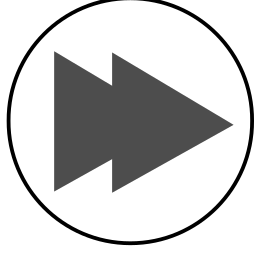
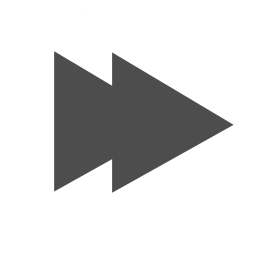
Pixelated problem has fixed

Changed region(s): [[0.0, 0.0, 1.0, 0.9684]]

diff --git a/src/userUI/subFrames/Playerpanel.java b/src/userUI/subFrames/Playerpanel.java
@@ -26,6 +26,7 @@ import staticinfo.Imagedtr;
 import staticinfo.MenuItemlist;
 import userUI.MainFrame;
 import userUI.information.Musicinfo;
+import userUI.mycomponents.Mybutton;
 import userUI.mycomponents.PlayerTime;
 
 import javax.swing.JProgressBar;
@@ -65,9 +66,8 @@ public class Playerpanel extends JPanel {
 	private Boolean isStop = false;
 	private final Object lock = new Object();
 	private int current = 0;
-	private JButton btn_Prev;
-	private JButton btn_Stop;
-	private JButton btn_Onward;
+	private JButton btn_Prev, btn_Stop,btn_Onward;
+	private JPanel pnl_Timeline, pnl_Onward,pnl_Stop,pnl_Prev;
 	/**
 	 * Create the panel.
 	 */
@@ -89,12 +89,12 @@ public class Playerpanel extends JPanel {
 		add(pnl_Buttons, BorderLayout.WEST);
 		pnl_Buttons.setLayout(new GridLayout(0, 3, 0, 0));
 		
-		JPanel pnl_Prev = new JPanel();
+		pnl_Prev = new JPanel();
 		pnl_Buttons.add(pnl_Prev);
 		SpringLayout sl_pnl_Prev = new SpringLayout();
 		pnl_Prev.setLayout(sl_pnl_Prev);
 		
-		btn_Prev = new JButton("");
+		btn_Prev = new Mybutton("");
 		btn_Prev.addMouseListener(new MouseAdapter() {
 			@Override
 			public void mouseClicked(MouseEvent e) {
@@ -108,11 +108,11 @@ public class Playerpanel extends JPanel {
 		sl_pnl_Prev.putConstraint(SpringLayout.EAST, btn_Prev, 23, SpringLayout.WEST, pnl_Prev);
 		pnl_Prev.add(btn_Prev);
 		
-		JPanel pnl_Stop = new JPanel();
+		pnl_Stop = new JPanel();
 		pnl_Buttons.add(pnl_Stop);
 		pnl_Stop.setLayout(new BorderLayout(0, 0));
 		
-		btn_Stop = new JButton("");
+		btn_Stop = new Mybutton("");
 		btn_Stop.setIcon(Photoeditor.photoScaleImage(Imagedtr.stop, 30, 51));
 		btn_Stop.addActionListener(new ActionListener() {
 			public void actionPerformed(ActionEvent e) {
@@ -121,12 +121,12 @@ public class Playerpanel extends JPanel {
 		});
 		pnl_Stop.add(btn_Stop, BorderLayout.CENTER);
 		
-		JPanel pnl_Onward = new JPanel();
+		pnl_Onward = new JPanel();
 		pnl_Buttons.add(pnl_Onward);
 		SpringLayout sl_pnl_Onward = new SpringLayout();
 		pnl_Onward.setLayout(sl_pnl_Onward);
 		
-		btn_Onward = new JButton("");
+		btn_Onward = new Mybutton("");
 		btn_Onward.addMouseListener(new MouseAdapter() {
 			@Override
 			public void mouseClicked(MouseEvent e) {
@@ -174,7 +174,7 @@ public class Playerpanel extends JPanel {
 		btn_Soundicon.setVisible(false);
 		pnl_Soundicon.add(btn_Soundicon, BorderLayout.CENTER);
 		
-		JPanel pnl_Timeline = new JPanel();
+		pnl_Timeline = new JPanel();
 		pnl_East.add(pnl_Timeline, BorderLayout.CENTER);
 		SpringLayout sl_pnl_Timeline = new SpringLayout();
 		pnl_Timeline.setLayout(sl_pnl_Timeline);
@@ -310,5 +310,21 @@ public class Playerpanel extends JPanel {
 	public void setNextVisibility(Boolean isActive) {
 		btn_Onward.setEnabled(isActive);
 	}
-
+	@Override
+	public void setBackground(Color bg) {
+		// TODO Auto-generated method stub
+		super.setBackground(bg);
+		if(btn_Onward == null) return;
+		btn_Onward.setBackground(bg);
+		btn_Prev.setBackground(bg);
+		btn_Stop.setBackground(bg);
+		pb_Time.setBackground(bg);
+		pnl_Time.setBackground(bg);
+		pnl_Timeline.setBackground(bg);
+		pnl_Buttons.setBackground(bg);
+		pnl_Soundicon.setBackground(bg);
+		pnl_Prev.setBackground(bg);
+		pnl_Onward.setBackground(bg);
+		pnl_Stop.setBackground(bg);
+	}
 }

diff --git a/src/userUI/subFrames/Playlistpanel.java b/src/userUI/subFrames/Playlistpanel.java
@@ -25,6 +25,7 @@ import staticinfo.Mycolors;
 import staticinfo.StaticNames;
 
 import java.awt.Font;
+import java.awt.Graphics;
 import java.io.File;
 import java.util.ArrayList;
 import java.util.Iterator;
@@ -147,11 +148,13 @@ public class Playlistpanel extends JPanel {
 			setting.openMusiclist();
 		}
 		else {
-			musiclist[0] = new Musiclist(0, "Directories", null); 
-			musiclist[0].addDirectorylist("C:\\Users\\aliko\\OneDrive\\Belgeler\\çalışılacak");
-			musiclist[0].addDirectorylist("C:\\Users\\aliko\\eclipse-workspace\\myMusicPlayer\\project management\\musics");
-			musiclist[1] = new Musiclist(1, "Playlist", null); 
-			musiclist[1].addPlaylist("deneme");
+			if(setting.DEBUG_MODE) {
+				musiclist[0] = new Musiclist(0, "Directories", null); 
+				musiclist[0].addDirectorylist("C:\\Users\\aliko\\OneDrive\\Belgeler\\çalışılacak");
+				musiclist[0].addDirectorylist("C:\\Users\\aliko\\eclipse-workspace\\myMusicPlayer\\project management\\musics");
+				musiclist[1] = new Musiclist(1, "Playlist", null); 
+				musiclist[1].addPlaylist("deneme");
+			}
 			setting.setMusiclist(musiclist);
 			setting.saveMusiclist();
 		}
@@ -201,6 +204,11 @@ public class Playlistpanel extends JPanel {
 		Musicpanel musicpanel = new Musicpanel(setting.getAllMusic(), parent);
 		musicpanel.thisAllMusics();
 		parent.panelChange(musicpanel);
+	}
+	@Override
+	public void paint(Graphics g) {
+		// TODO Auto-generated method stub
+		super.paint(g);
 	}
 	@Override
 	public void repaint() {

diff --git a/src/backend/Photoeditor.java b/src/backend/Photoeditor.java
@@ -1,6 +1,7 @@
 package backend;
 
 import java.awt.AlphaComposite;
+import java.awt.Dimension;
 import java.awt.Graphics2D;
 import java.awt.Image;
 import java.awt.Transparency;
@@ -18,6 +19,11 @@ import javax.swing.Icon;
 import javax.swing.ImageIcon;
 import javax.swing.JComponent;
 
+import net.coobird.thumbnailator.*;
+import net.coobird.thumbnailator.makers.FixedSizeThumbnailMaker;
+import net.coobird.thumbnailator.resizers.DefaultResizerFactory;
+import net.coobird.thumbnailator.resizers.Resizer;
+
 public class Photoeditor {
 	//scale photo to wanted resolution
 	public static Image photoScale(String directory, int widht,int height) {
@@ -29,7 +35,13 @@ public class Photoeditor {
 			e.printStackTrace();
 		}
 		Image scaledImage = originalImage.getScaledInstance(widht, height, Image.SCALE_SMOOTH);
-		return scaledImage;	
+		Resizer resizer = DefaultResizerFactory.getInstance().getResizer(
+				  new Dimension(originalImage.getWidth(), originalImage.getHeight()), 
+				  new Dimension(widht, height));
+				BufferedImage newImage = new FixedSizeThumbnailMaker
+						(widht, height, false, true)
+						.resizer(resizer).make(originalImage);
+		return newImage;	
 	}
 	//turn photoscale's bufferedimage to imageicon
 	public static ImageIcon photoScaleImage(String directory, int widht,int height) {

diff --git a/src/userUI/mycomponents/PlayerTime.java b/src/userUI/mycomponents/PlayerTime.java
@@ -35,6 +35,8 @@ public class PlayerTime extends JPanel {
 	private Boolean isPlay;
 	private int prevValue = 0;
 	private Playerpanel mother;
+
+	private JLayeredPane lpnl_Content;
 	public PlayerTime(Playerpanel mother) {
 		this.mother = mother;
 		init();
@@ -42,7 +44,7 @@ public class PlayerTime extends JPanel {
 	private void init() {
 		setLayout(new BorderLayout(0, 0));
 		
-		JLayeredPane lpnl_Content = new JLayeredPane();
+		lpnl_Content = new JLayeredPane();
 		add(lpnl_Content, BorderLayout.CENTER);
 		SpringLayout sl_lpnl_Content = new SpringLayout();
 		lpnl_Content.setLayout(sl_lpnl_Content);
@@ -154,5 +156,14 @@ public class PlayerTime extends JPanel {
 		mother.setCurrent(value);
 		mother.setisplay(true);
 		//mother.setTimer();
+	}
+	@Override
+	public void setBackground(Color bg) {
+		// TODO Auto-generated method stub
+		super.setBackground(bg);
+		if(pb_Time == null) return;
+		pb_Time.setBackground(bg);
+		sb_Time.setBackground(bg);
+		lpnl_Content.setBackground(bg);
 	}
 }

diff --git a/src/userUI/mycomponents/Submenu.java b/src/userUI/mycomponents/Submenu.java
@@ -22,6 +22,7 @@ import backend.AddtoMusiclist;
 import backend.MusicPlayer;
 import backend.Photoeditor;
 import backend.StringEditor;
+import staticinfo.Dtr;
 import staticinfo.Imagedtr;
 import staticinfo.MenuItemlist;
 import staticinfo.Mycolors;
@@ -62,18 +63,21 @@ public class Submenu extends JPanel {
 		this.greatparent = greatparent;
 		player = greatparent.getPlayer();
 		String name = null;
-		ImageIcon icon = null;
+		String icon = null;
 		if(directory == null) {
 			name = list.toString();
-			icon = new ImageIcon(Imagedtr.playlist);
+			icon = Dtr.getImage("Playlist.png");
 			btn_Add.setVisible(true);
 		}
 		else {
 			name = directory;
-			icon = new ImageIcon(Imagedtr.folder);
+			icon = Dtr.getImage("folder.png");
 			btn_Add.setVisible(false);
 		}
-		lbl_Image.setIcon(icon);
+		lbl_Image.setIcon(Photoeditor.photoScaleImage(
+				icon, 
+				50, 
+				50));
 		lbl_Text.setText(name);
 	}
 	public Submenu(String text) {

diff --git a/src/userUI/mycomponents/IntegerLabel.java b/src/userUI/mycomponents/IntegerLabel.java
@@ -1,0 +1,35 @@
+package userUI.mycomponents;
+
+import javax.swing.JLabel;
+
+public class IntegerLabel extends JLabel{
+	/**
+	 * 
+	 */
+	private static final long serialVersionUID = -3978184245000985974L;
+	public IntegerLabel(){
+		
+	}
+	public IntegerLabel(String string) {
+		// TODO Auto-generated constructor stub
+		setText(string);
+	}
+	@Override
+	public void setText(String text) {
+		// TODO Auto-generated method stub
+		try {
+			Integer.parseInt(text);
+			
+		} catch (NumberFormatException e) {
+			return;
+		}
+		String newString = text;
+		if(text.length() < 2) {
+			newString = "0"+text;
+		}
+		super.setText(newString);
+	}
+
+
+	
+}

diff --git a/src/userUI/mycomponents/Mybutton.java b/src/userUI/mycomponents/Mybutton.java
@@ -10,8 +10,12 @@ import javax.swing.JButton;
 public class Mybutton extends JButton{
 	public Mybutton(String text) {
 		super(text);
+		init();
 	}
 	public Mybutton(){
+		init();
+	}
+	private void init() {
 		setContentAreaFilled(false);
 		setBorderPainted(false);
 		setFocusPainted(false);

diff --git a/src/userUI/MainFrame.java b/src/userUI/MainFrame.java
@@ -52,6 +52,7 @@ public class MainFrame extends JFrame {
 		EventQueue.invokeLater(new Runnable() {
 			public void run() {
 				try {
+					System.setProperty("sun.java2d.uiScale", "1.0");
 					MainFrame frame = new MainFrame();
 					frame.setVisible(true);
 				} catch (Exception e) {
